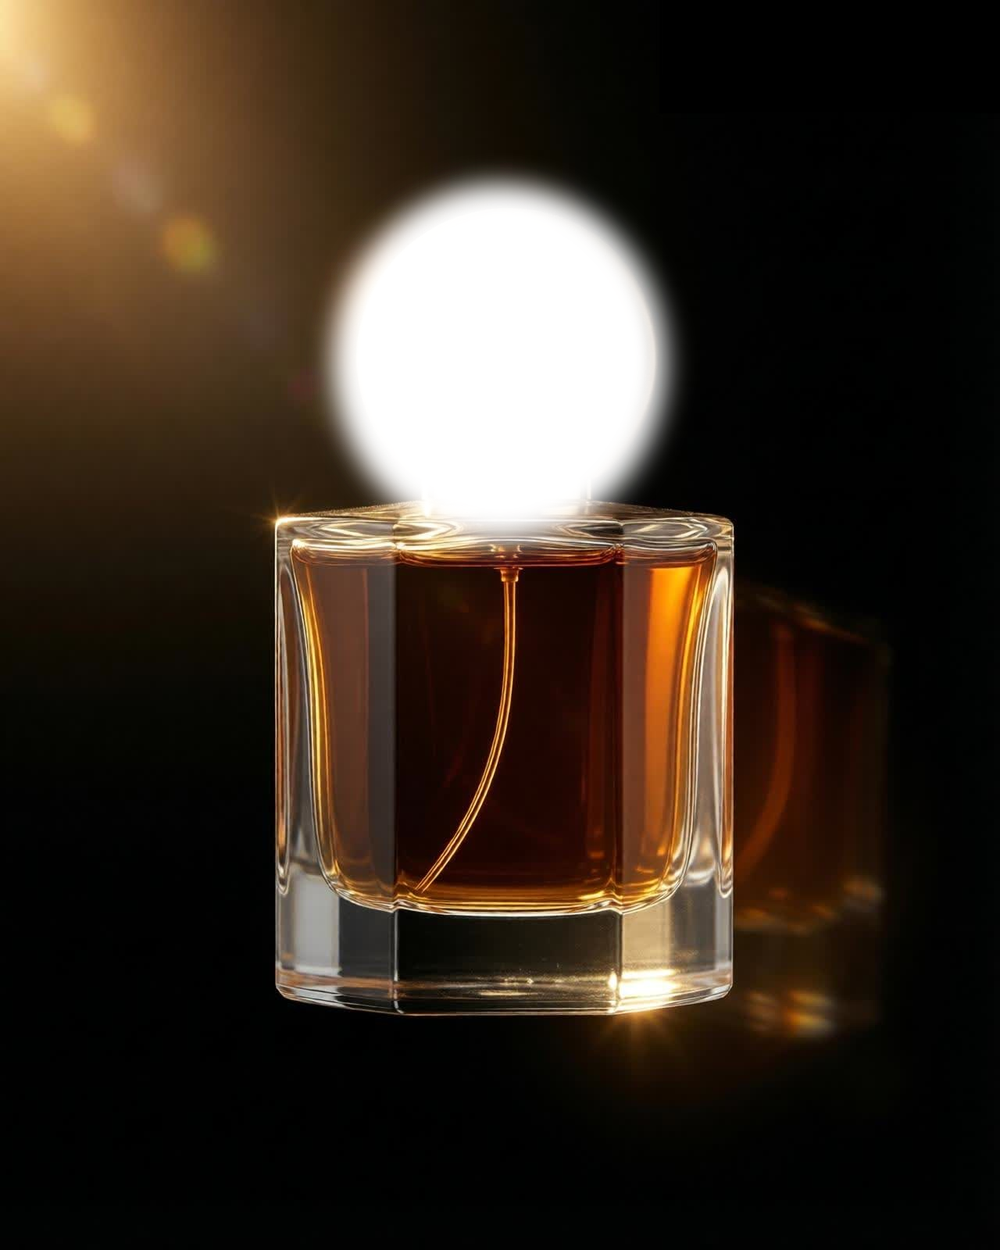
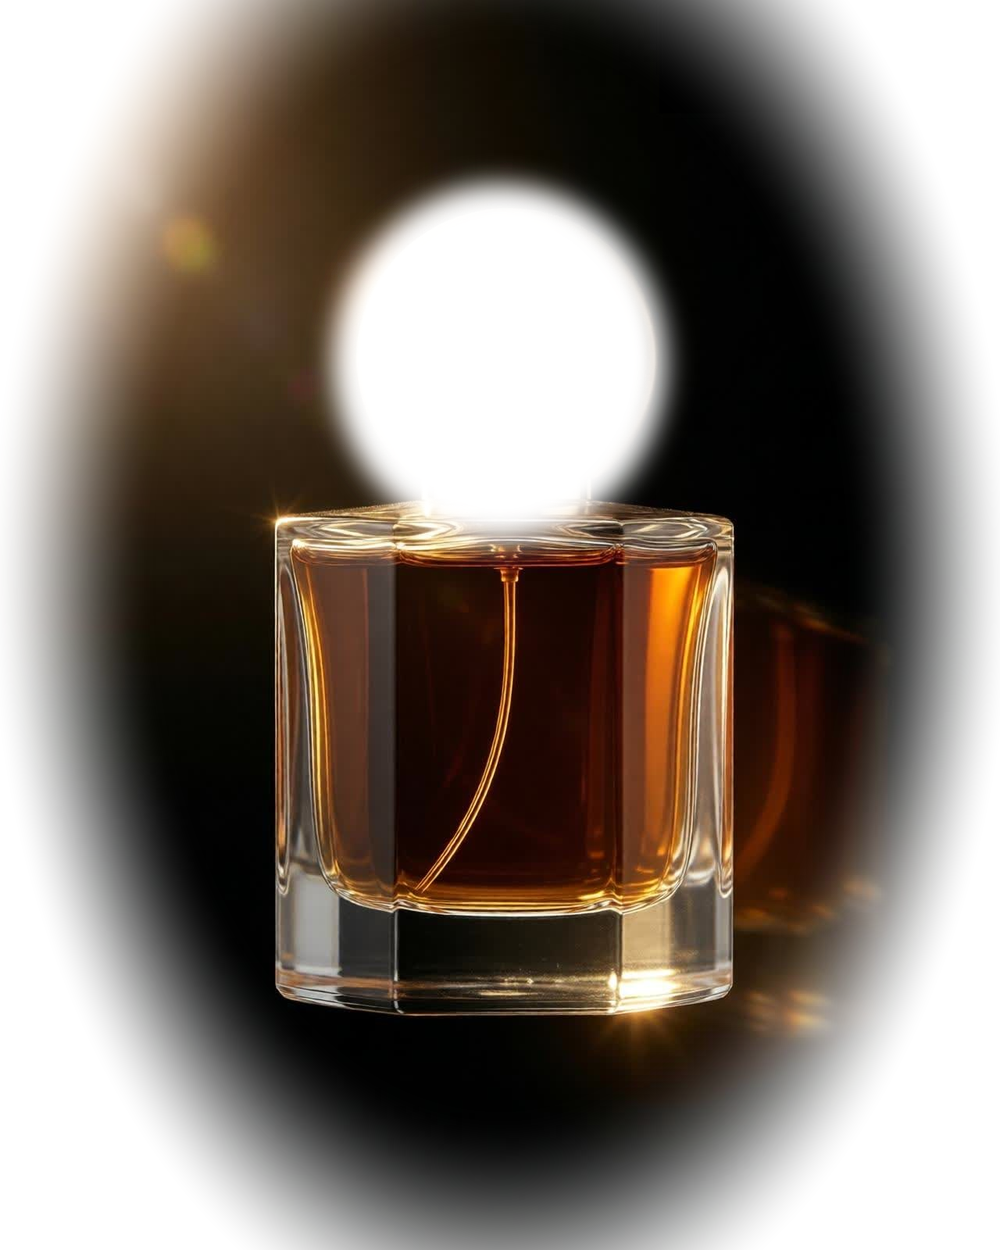
Extreme-smooth hero, mouse-tilt bottle, mobile responsiveness
1. Performance: hero is now pure GPU compositing — baked the edge-fade into
   the flacon PNG alpha (removed the CSS mask that re-rasterised each scaled
   frame), removed the drop-shadow filter and the per-frame blur, and dropped
   the blur() on the 12 product halos. Eliminates the hero/scroll lag.
2. Mouse interaction: the whole flacon (cap + body + label) subtly tilts in 3D
   toward the pointer with eased interpolation (no jitter); touch devices get a
   gentle idle sway. Fades out as the camera dives in.
3. Mobile: right-sized hero bottle, compact nav (no clipping/overflow),
   .flacon SVGs constrained to their container (fixes horizontal overflow),
   detail/checkout phone layouts.

Full flow re-verified (hero, discover+recolor, cart, order, 4 payments, contact);
no console errors, no horizontal overflow.

diff --git a/js/hero.js b/js/hero.js
@@ -1,17 +1,22 @@
 /* ============================================================
    HERO — cinematic image + video sequence (no WebGL, buttery).
-   The REAL flacon photo approaches, the seal releases, and the
-   camera dives into the amber-liquid video which becomes the world.
-   Exposes the same window.MNScene API main.js already drives.
+   Real flacon: cap opens, camera dives into the amber-liquid video.
+   + subtle mouse-parallax tilt (desktop) / gentle sway (touch).
+   Pure GPU transform + opacity — no per-frame filters. Same
+   window.MNScene API main.js already drives.
    ============================================================ */
-const clamp = (v, a, b) => Math.min(b, Math.max(a, v));
-const lerp  = (a, b, t) => a + (b - a) * t;
+const clamp  = (v, a, b) => Math.min(b, Math.max(a, v));
+const lerp   = (a, b, t) => a + (b - a) * t;
 const smooth = (e0, e1, x) => { const t = clamp((x - e0) / (e1 - e0), 0, 1); return t * t * (3 - 2 * t); };
 
 const video  = document.getElementById("worldVideo");
 const tint   = document.getElementById("worldTint");
 const flacon = document.getElementById("heroFlacon");
 const cap    = document.getElementById("heroCap");
+const stack  = document.querySelector(".hero-flacon__stack");
+
+const fine   = matchMedia("(pointer: fine)").matches;
+const reduce = matchMedia("(prefers-reduced-motion: reduce)").matches;
 
 /* keep the liquid world playing (muted autoplay is allowed); pause when hidden */
 function play(){ if (video) video.play().catch(() => {}); }
@@ -25,37 +30,63 @@ document.addEventListener("visibilitychange", () => {
   document.hidden ? video.pause() : play();
 });
 
-/* scroll-driven state — direct GPU transforms, no render loop */
-let last = -1;
+/* ---------------- scroll-driven cinematic ---------------- */
+let last = -1, curP = 0;
 function setProgress(p){
   p = clamp(p, 0, 1);
-  if (Math.abs(p - last) < 0.0005) return;      // skip redundant writes
+  curP = p;
+  if (Math.abs(p - last) < 0.0005) return;
   last = p;
 
-  // one continuous move: approach -> CAP OPENS -> dive through the opening -> submerge
-  const capOpen  = smooth(0.12, 0.42, p);                     // the seal visibly lifts
+  const capOpen  = smooth(0.12, 0.42, p);                     // seal lifts
   const approach = smooth(0.0, 0.5, p);
   const dive     = smooth(0.5, 1.0, p);
-  const scale    = lerp(0.94, 1.34, approach) + dive * 4.6;   // no plateau -> no "stuck then jump"
+  const scale    = lerp(0.94, 1.34, approach) + dive * 4.6;   // continuous, no plateau
   const y        = -smooth(0.18, 1.0, p) * 10;
-  const opacity  = 1 - smooth(0.72, 0.9, p);                  // dissolve as we pass into the liquid
-  const blur     = smooth(0.6, 0.9, p) * 8;
+  const opacity  = 1 - smooth(0.72, 0.9, p);
 
   if (flacon){
     flacon.style.transform = `translate3d(0, ${y}%, 0) scale(${scale.toFixed(3)})`;
     flacon.style.opacity   = opacity.toFixed(3);
-    flacon.style.filter    = blur > 0.15 ? `blur(${blur.toFixed(2)}px)` : "none";
   }
   if (cap){
-    // the gold seal lifts up and tilts away, revealing the open neck below
     cap.style.transform = `translate(${(capOpen*2).toFixed(2)}%, ${(-capOpen*14).toFixed(2)}%) rotate(${(-capOpen*5).toFixed(2)}deg)`;
   }
   if (tint){
     tint.style.opacity = lerp(0.92, 0.18, smooth(0.45, 0.85, p)).toFixed(3);
   }
 }
-
 setProgress(0);
+
+/* ---------------- premium tilt (mouse / device) ---------------- */
+let tmx = 0, tmy = 0, mx = 0, my = 0, lastTilt = "";
+if (fine && !reduce){
+  window.addEventListener("mousemove", (e) => {
+    tmx = (e.clientX / innerWidth  - 0.5) * 2;
+    tmy = (e.clientY / innerHeight - 0.5) * 2;
+  }, { passive: true });
+}
+function tiltLoop(){
+  if (!document.hidden && stack){
+    if (!fine){                                   // touch: a slow, alive idle sway
+      const t = performance.now() * 0.0005;
+      tmx = Math.sin(t) * 0.42; tmy = Math.cos(t * 0.9) * 0.26;
+    }
+    mx += (tmx - mx) * 0.07; my += (tmy - my) * 0.07;   // smooth easing → no jitter
+    const k = 1 - smooth(0.3, 0.62, curP);              // fade tilt out as we dive in
+    let t;
+    if (k > 0.002){
+      const ry = (mx * 7 * k).toFixed(2), rx = (-my * 5 * k).toFixed(2);
+      const tx = (mx * 12 * k).toFixed(2), ty = (my * 10 * k).toFixed(2);
+      t = `perspective(1400px) rotateY(${ry}deg) rotateX(${rx}deg) translate3d(${tx}px, ${ty}px, 0)`;
+    } else {
+      t = "none";
+    }
+    if (t !== lastTilt){ stack.style.transform = t; lastTilt = t; }
+  }
+  requestAnimationFrame(tiltLoop);
+}
+if (!reduce) requestAnimationFrame(tiltLoop);
 
 /* same public API scene.js exposed, so main.js is untouched */
 window.MNScene = { setProgress, setActive(){}, isReady: () => true };

diff --git a/css/styles.css b/css/styles.css
@@ -146,17 +146,18 @@ button{ font-family:inherit; cursor:pointer; border:none; background:none; color
   position: fixed; inset:0; z-index:3; display:flex; align-items:center; justify-content:center;
   transform-origin:50% 46%; will-change:transform,opacity,filter; pointer-events:none; backface-visibility:hidden;
 }
+/* edge-fade is baked into the PNG alpha (no CSS mask), no drop-shadow filter —
+   so the scaling hero is pure GPU compositing (transform + opacity) = no lag. */
 .hero-flacon__stack{
-  position:relative; height:min(86vh,880px); aspect-ratio:1280/1600;
-  -webkit-mask-image: radial-gradient(ellipse 60% 74% at 50% 46%, #000 58%, transparent 86%);
-  mask-image: radial-gradient(ellipse 60% 74% at 50% 46%, #000 58%, transparent 86%);
+  position:relative; height:min(86vh,880px); aspect-ratio:4/5;
+  will-change: transform; transform: translateZ(0);
 }
 .hero-layer{
   position:absolute; inset:0; width:100%; height:100%; object-fit:contain; display:block;
-  filter: drop-shadow(0 40px 80px rgba(0,0,0,.7));
+  backface-visibility:hidden;
 }
-#heroCap{ will-change:transform,opacity; transform-origin:50% 62%; }
-#heroBody{ will-change:opacity; }
+#heroCap{ will-change:transform,opacity; transform-origin:50% 62%; backface-visibility:hidden; }
+#heroBody{ will-change:opacity; backface-visibility:hidden; }
 .hero-flacon__glow{
   position:absolute; width:56vh; height:56vh; border-radius:50%; z-index:-1;
   background:radial-gradient(circle, rgba(217,154,60,.42), transparent 62%); filter:blur(60px);
@@ -315,13 +316,15 @@ button{ font-family:inherit; cursor:pointer; border:none; background:none; color
   filter: drop-shadow(0 40px 70px rgba(0,0,0,.6));
   transition: transform .6s var(--ease);
 }
+.flacon{ display:block; width:100%; height:auto; max-width:100%; }   /* SVG flacons always fit their container (no overflow) */
 [data-float]{ animation: floatY 6.5s var(--ease) infinite; }
 @keyframes floatY{ 0%,100%{ transform: translateY(0) rotate(-.6deg); } 50%{ transform: translateY(-3.2%) rotate(.6deg); } }
 .product__visual:hover .product__halo{ opacity:1; transform:scale(1.12); }
 .product__halo{
-  position:absolute; inset:10% 14%; border-radius:50%;
-  background: radial-gradient(circle, var(--halo,rgba(201,162,75,.4)) 0%, transparent 62%);
-  filter: blur(30px); z-index:-1; opacity:.85;
+  position:absolute; inset:6% 10%; border-radius:50%;
+  /* soft radial gradient instead of a blur() filter (blur on 12 elements is costly) */
+  background: radial-gradient(circle, var(--halo,rgba(201,162,75,.4)) 0%, transparent 66%);
+  z-index:-1; opacity:.8;
   transition: transform .6s var(--ease), opacity .5s;
 }
 .product__idx{
@@ -661,13 +664,26 @@ button{ font-family:inherit; cursor:pointer; border:none; background:none; color
   .detail__bottle{ width:min(48%,180px); }
   /* keep overlays cheap on mobile GPUs */
   .detail__inner{ backdrop-filter: blur(14px); -webkit-backdrop-filter: blur(14px); }
+  .hero-flacon__stack{ height:min(60vh,520px); }   /* tablet: right-sized bottle */
 }
 @media (max-width: 560px){
   .field-row{ grid-template-columns:1fr; }
-  .beat--intro .display{ font-size: 20vw; }
+  .beat--intro .display{ font-size: 19vw; }
   .checkout__summary{ flex-direction:column; }
   .mini-footer{ flex-direction:column; gap:10px; text-align:center; }
   .detail__actions{ grid-template-columns:1fr; }
+  /* phone: bottle fits the width, never oversized / never overflows */
+  .hero-flacon{ align-items:flex-start; padding-top:14vh; }
+  .hero-flacon__stack{ height:auto; width:min(72vw,300px); }
+  .detail__inner{ grid-template-rows: 34% 66%; }
+  .detail__bottle{ width:min(42%,150px); }
+  .checkout__panel{ width:100%; }
+  /* compact nav so logo + cart + menu fit small screens (no overflow / clipping) */
+  .nav{ padding-left:16px; padding-right:16px; }
+  .nav__logo{ font-size:14px; letter-spacing:.1em; }
+  .nav__actions{ gap:10px; }
+  .nav__cart{ padding:8px 12px; gap:8px; }
+  .nav__cart-label{ display:none; }
 }
 
 /* ============================================================

diff --git a/index.html b/index.html
@@ -342,11 +342,11 @@
   <script src="js/vendor/gsap.min.js"></script>
   <script src="js/vendor/ScrollTrigger.min.js"></script>
   <script src="js/vendor/lenis.min.js"></script>
-  <script type="module" src="js/products.js?v=7"></script>
-  <script type="module" src="js/hero.js?v=7"></script>
-  <script type="module" src="js/checkout.js?v=7"></script>
-  <script type="module" src="js/shop.js?v=7"></script>
-  <script type="module" src="js/main.js?v=7"></script>
-  <script type="module" src="js/enhance.js?v=7"></script>
+  <script type="module" src="js/products.js?v=8"></script>
+  <script type="module" src="js/hero.js?v=8"></script>
+  <script type="module" src="js/checkout.js?v=8"></script>
+  <script type="module" src="js/shop.js?v=8"></script>
+  <script type="module" src="js/main.js?v=8"></script>
+  <script type="module" src="js/enhance.js?v=8"></script>
 </body>
 </html>
